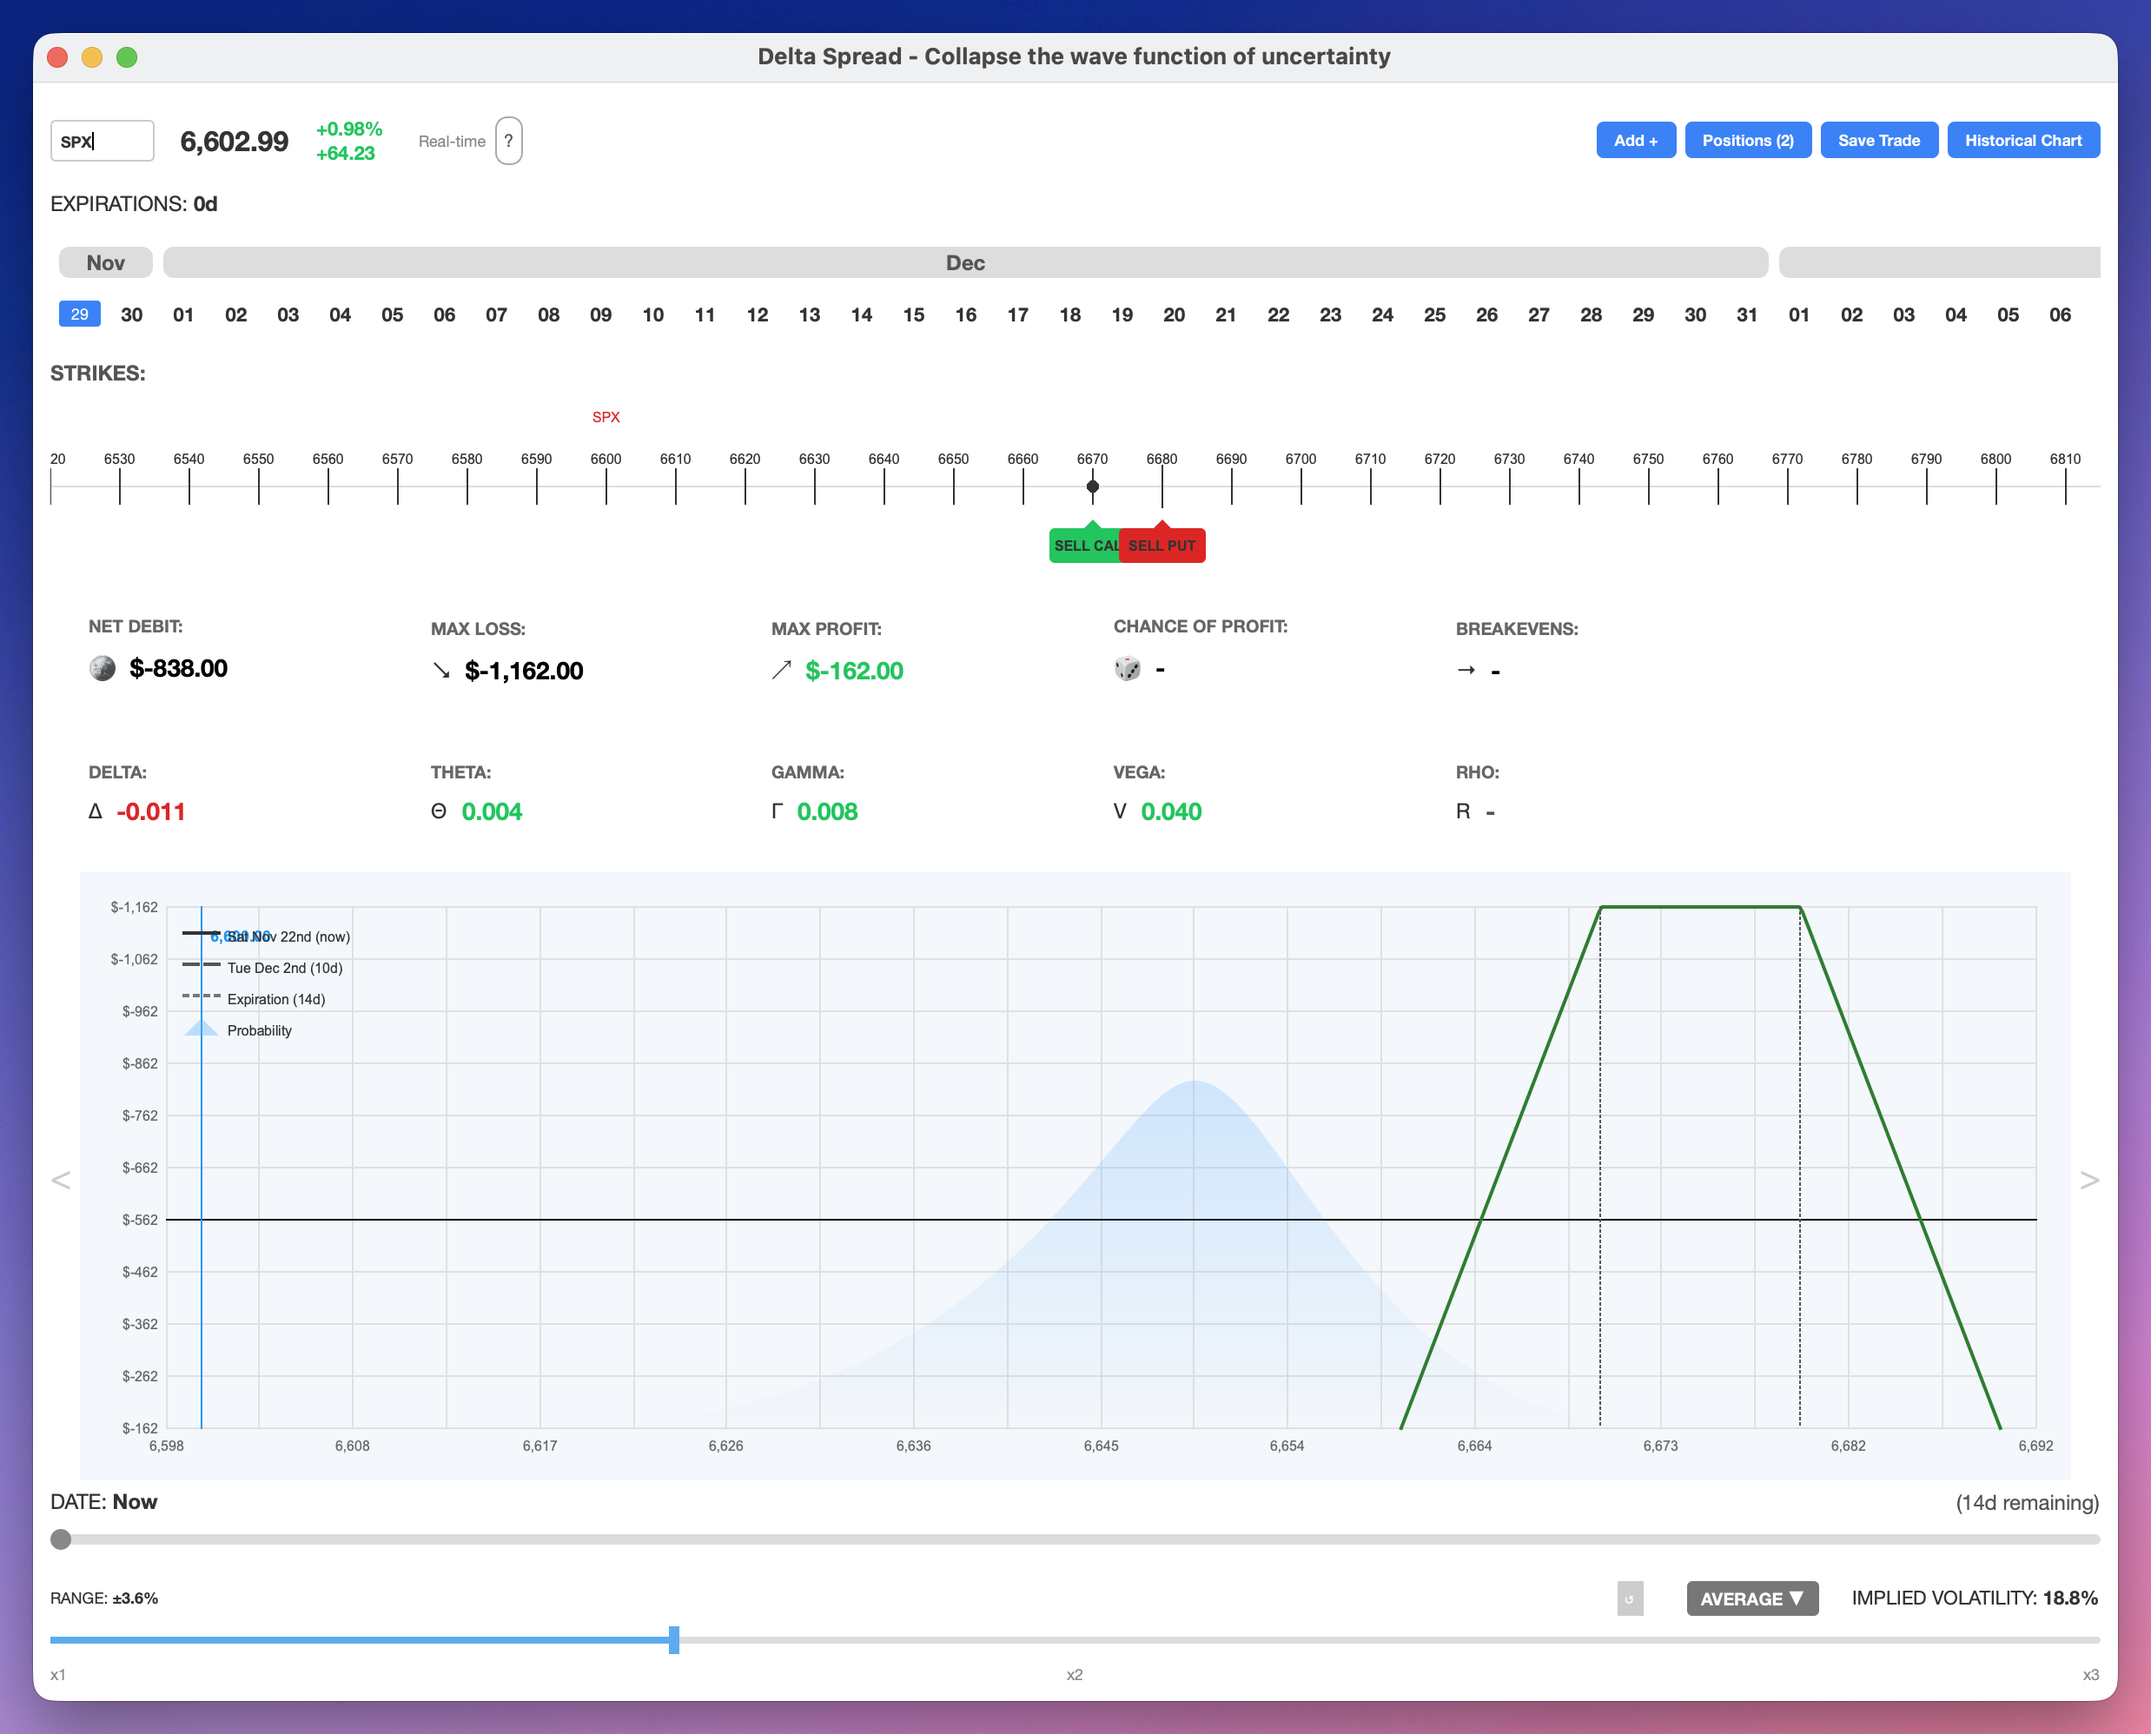
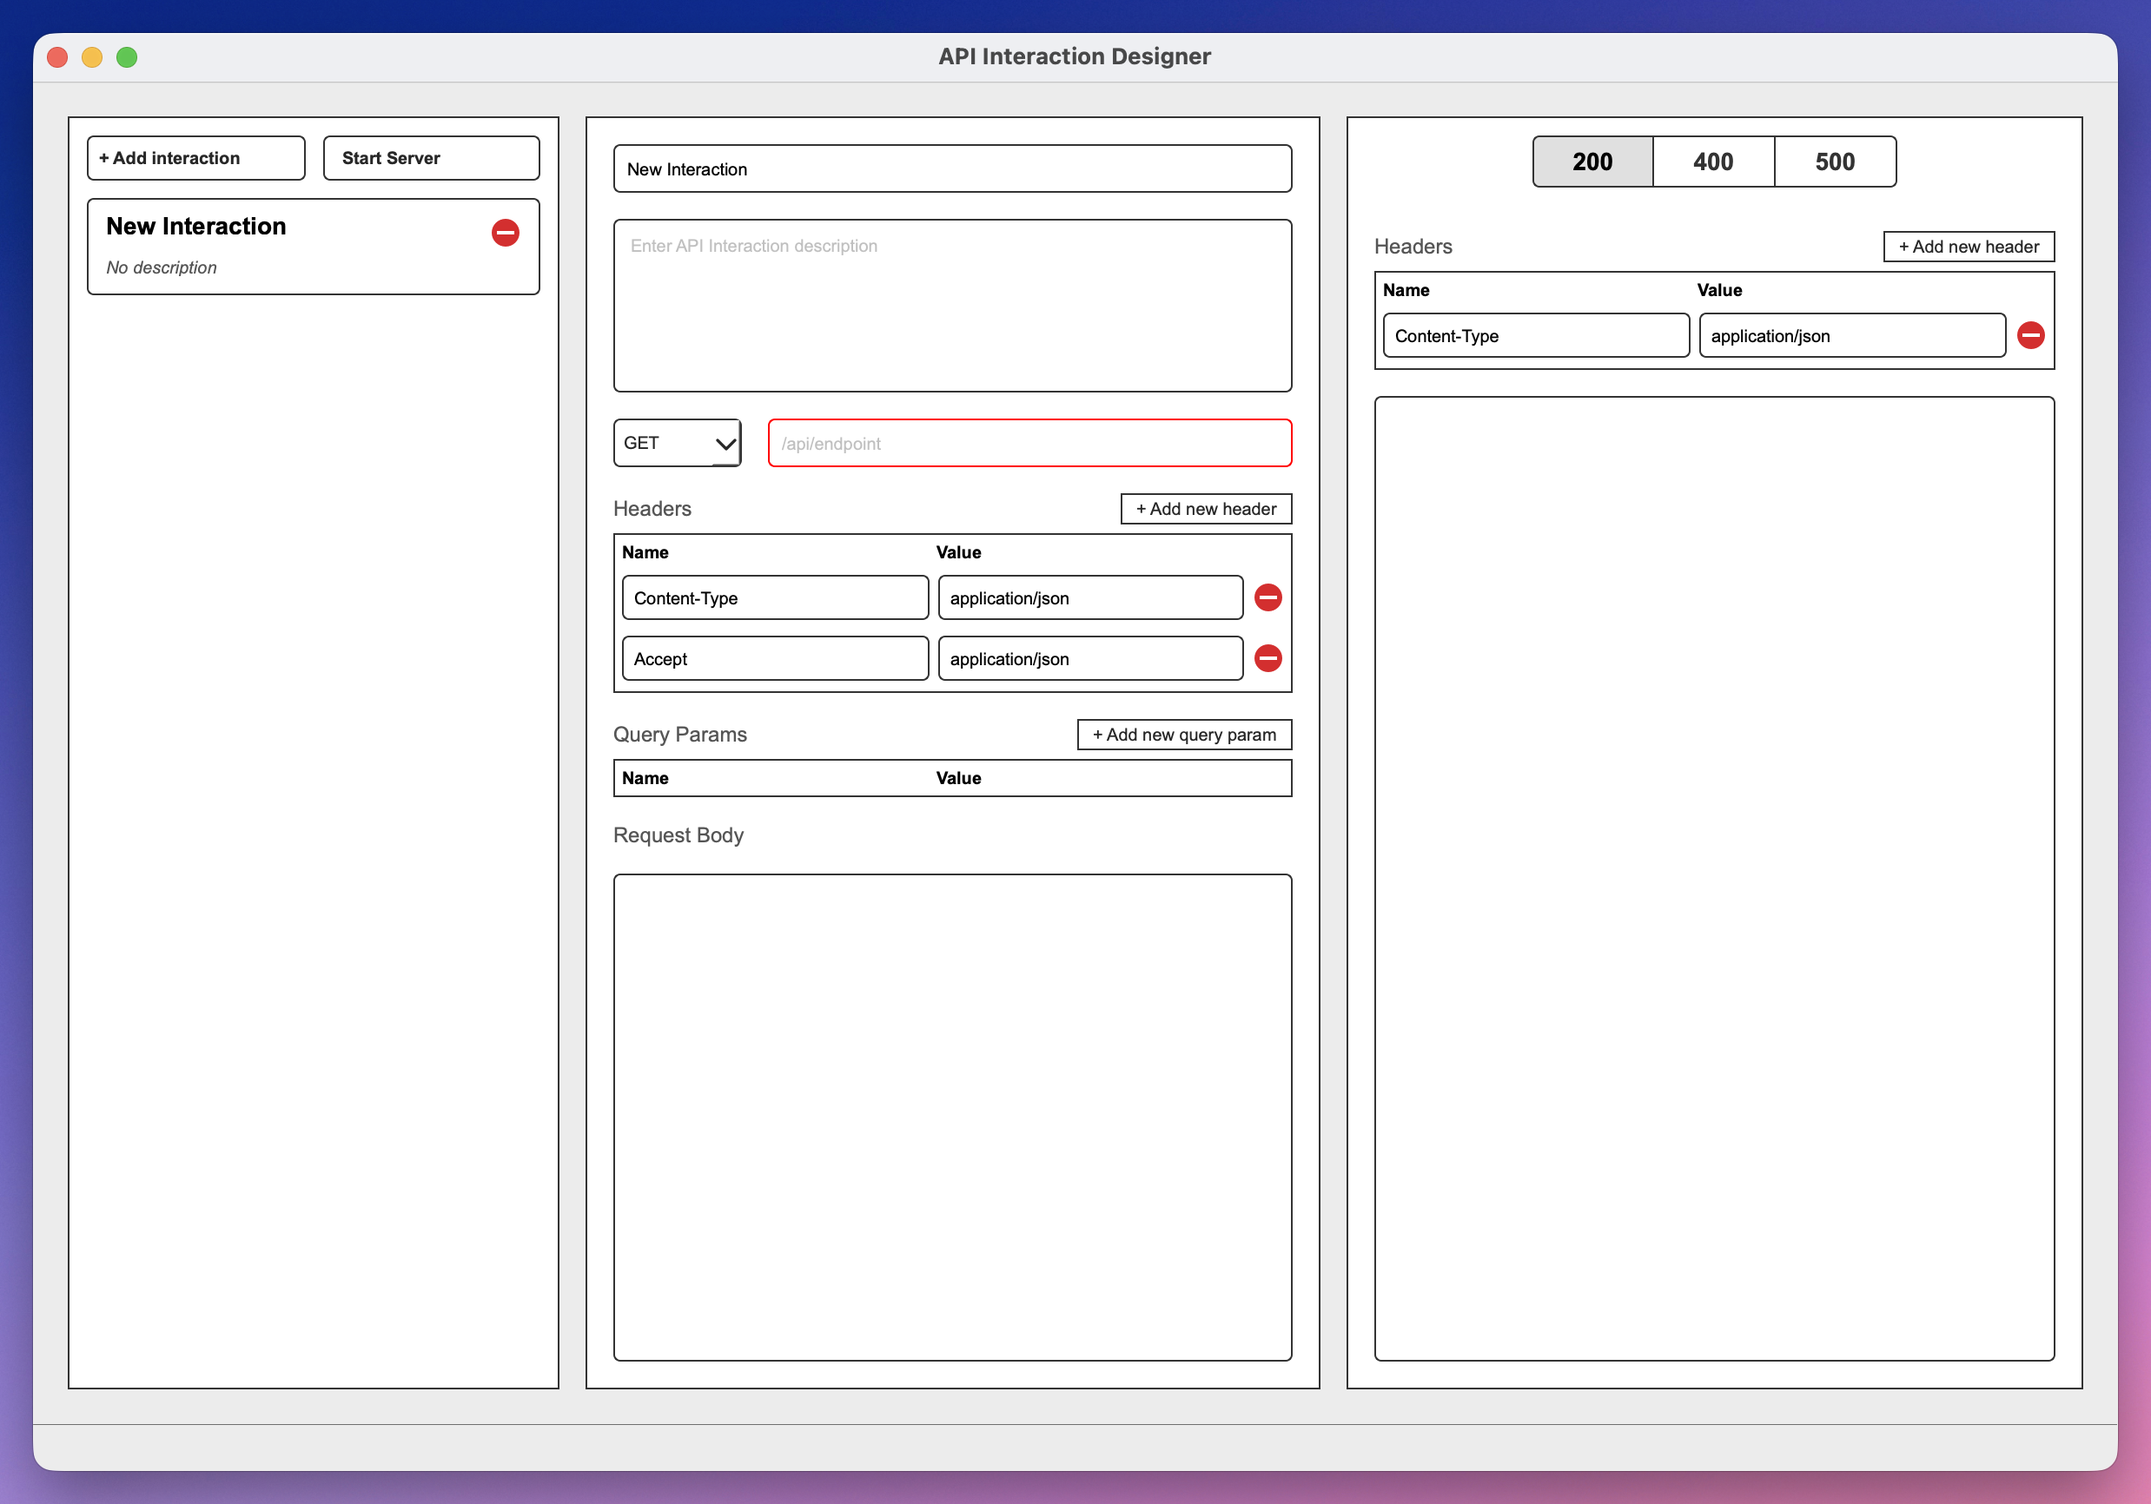
docs: update README with Python 3.12 requirement and run instructions
Update the Python version prerequisite from 3.8+ to 3.12+ to reflect current requirements. Also clarify the preferred method to run the application in development mode using `make run` and add an alternative using `uv`.

diff --git a/README.md b/README.md
@@ -18,7 +18,7 @@ API SketchPad provides a flexible three-column interface for composing HTTP requ
 
 ## Prerequisites
 
-- Python 3.8+
+- Python 3.12+
 - PyQt6 >= 6.4.0
 
 ## Installation (dev)
@@ -26,22 +26,17 @@ API SketchPad provides a flexible three-column interface for composing HTTP requ
 Install a development environment and tools. This project uses `uv` and `make` in the template, but you can install dependencies with pip as well.
 
 ```bash
-# Option 1: using the provided helper (if uv is configured)
+# using the provided helper (if uv is configured)
 make install
-
-# Option 2: create venv + pip
-python -m venv .venv
-. .venv/bin/activate
-pip install -e .
 ```
 
 ## Run (development)
 
 ```bash
-# runs the top-level module (if implemented)
+# runs the top-level module (preferred)
 make run
-# or
-python -m api_sketchpad.main
+# or run via uv
+uv run python -m api_sketchpad.main
 ```
 
 ## Testing
